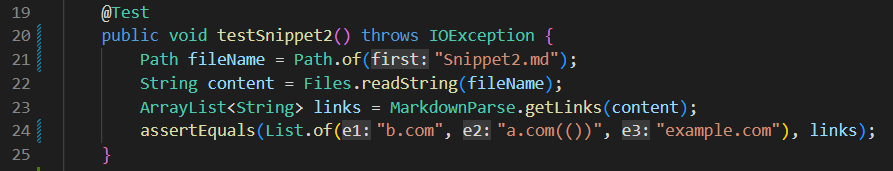
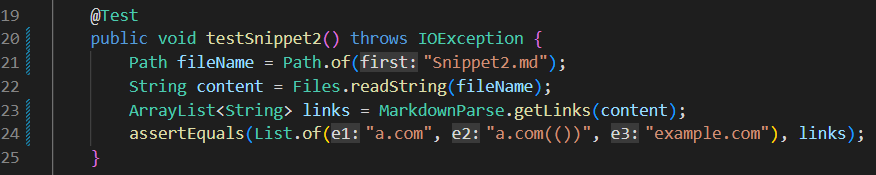
Update

diff --git a/lab-report-4-week-8.md b/lab-report-4-week-8.md
@@ -22,7 +22,7 @@
 * When running the test of Snippet 1 on my peer's repository of MarkdownParse, we can see that the test also passes.
 
 ![image2](Week8/1peerout.jpg)
-![image2](Week8)
+![image2](Week8/1peeract.jpg)
 
 ## Snippet 2
 
@@ -30,17 +30,19 @@
 
 ![image1](Week8/2a.jpg)
 
-* As a result, its expected value should be `[b.com, a.com(()), example.com]`. Moreover, here is the code used for testing Snippet 2 using *JUnit*:
+* As a result, its expected value should be `[a.com, a.com(()), example.com]`. Moreover, here is the code used for testing Snippet 2 using *JUnit*:
 
 ![image2](Week8/2test.jpg)
 
 ### My implementation on **MarkdownParser**
-* After I run the test for Snippet 2, JUnit shows failure on testing. And the following screenshot from the command line have showed the difference between actual and expected value of my program work.
+* After I run the test for Snippet 2, JUnit test was passed. And the following screenshot from the command line have showed the actual and expected value of my program work.
 
 ![image2](Week8/2output.jpg)
 
 ### Peer's implementation on **MarkdownParser**
-* Screenshot
+* After running the test for Snippet 2, my peer's program work fail the test.
+
+![image](Week8/2peerout.jpg)
 
 ## Snippet 3
 
@@ -63,6 +65,6 @@
 ## More on Snippets
 * For Snippet 1, it seems my program work has already passed the test, so there is unnecessary to have a code change. As a result, I think the my codes can be cleaned and make it into a more efficient program.
 
-* For Snippet 2, my program work didn't pass the test.
+* For Snippet 2, it seems my program work has already passed the test, so there is unnecessary to have a code change. But for my peer's program work
 
 * For Snippet 3, my program work didn't pass the test.
